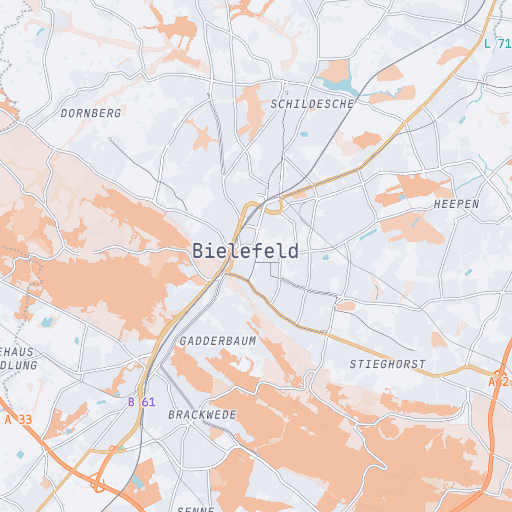
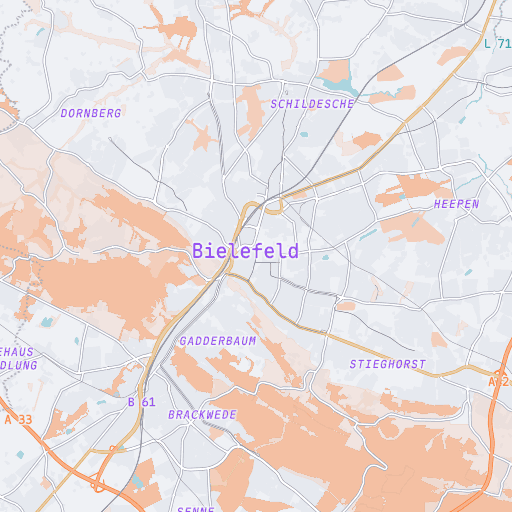
Nerd-Stile: Orts- und POI-Namen in der Akzentfarbe des Markers
Claude-Session: https://claude.ai/code/session_01RwtuvKZMrN3synPMSA5Ewr

diff --git a/CLAUDE.md b/CLAUDE.md
@@ -93,6 +93,7 @@ There are no tests. To check a rendering change, re-render and look at a tile ne
   - `everforest-dark`: soft and low-contrast, no glow, green-grey ground, grey/cream roads, yellow primary, orange only motorway.
   - `tokyonight-night`: blue neon for trunk/primary, magenta2 motorway, water blue0.
   - Road ref and major-name labels use the same colours as their road lines.
+- Nerd styles colour place and POI labels (`*label*`, `label_*`, `poi_*`, `airport`) in their marker `color` (user request, like cyberpunk's cyan). Where needed it is mixed with the marker `fg` until contrast ≥ 3.5:1 (large text). POIs: dark styles mix 22 % toward the background, light styles 35 % toward `fg`. Each block is marked with a comment.
 - Nerd styles end with a `# >>> Akzent-Beschriftung … # <<<` block. It hides the white shield sprite (`icon-image = ""`, because sprite PNGs cannot be recoloured) and colours road refs by class with a `match` expression: motorway / trunk+primary / rest, using the theme's accent colours. Major road names get the primary accent too. Keep the block at the end of the file so it wins.
 - POI layers: a low `rank` means important, so `poi_r1` holds the most important places and `poi_r20` the least. Hide `poi_r20`, not `poi_r1`.
 - Styles and their user-chosen names:
